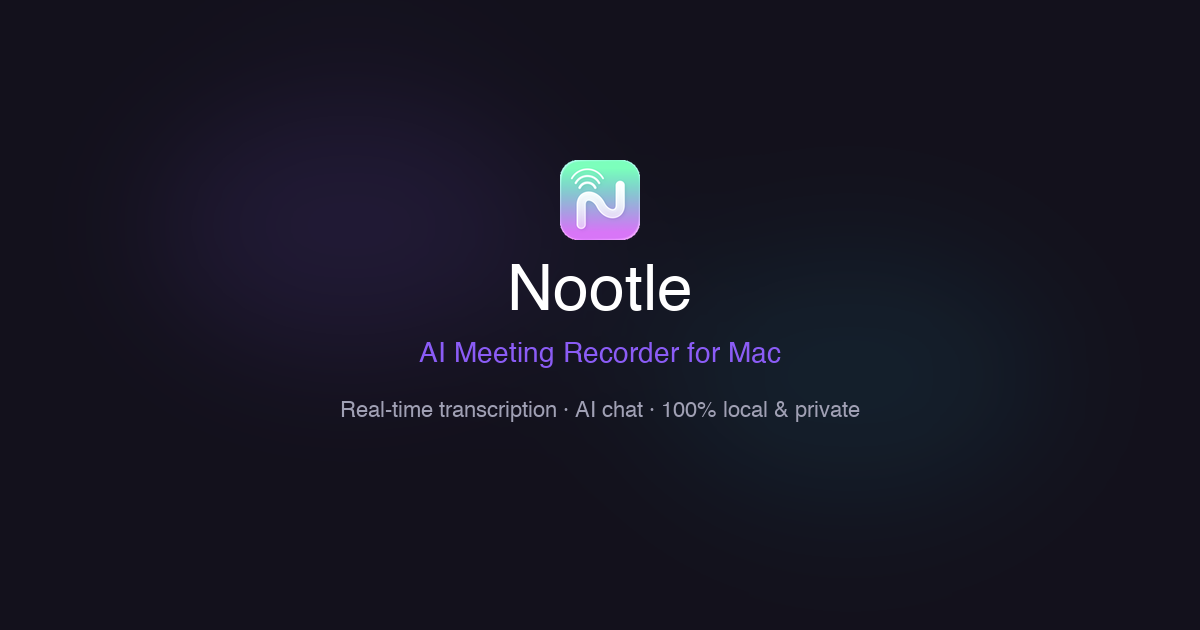
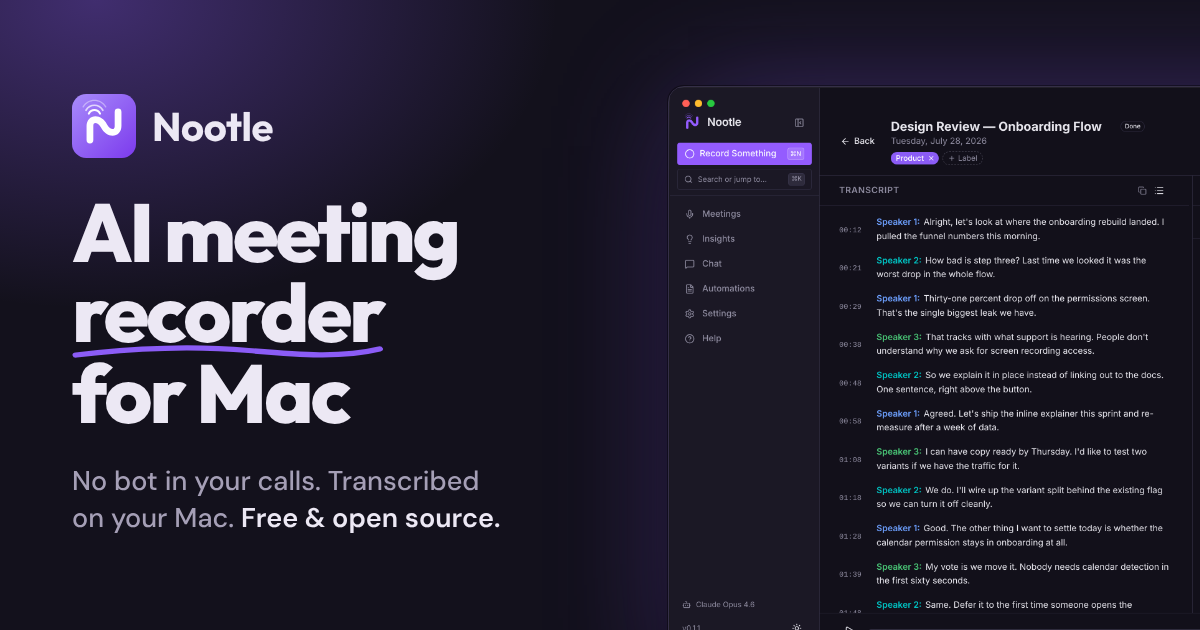
feat(site): redesign Open Graph share image
The old card was a small centered logo and tagline on an empty dark
background, so link previews read as a blank rectangle. The new one leads
with a large headline and shows the real meeting screen.

The image is rendered from scripts/og-image/og-image.html with Playwright
(pnpm og-image). OG_IMAGE carries a version query so social sites re-fetch
it instead of serving their cached copy.

Claude-Session: https://claude.ai/code/session_013qMKqzPfdygmsVsEaXe3Ju

diff --git a/scripts/og-image/og-image.html b/scripts/og-image/og-image.html
@@ -1,0 +1,85 @@
+<!doctype html>
+<html>
+<head>
+<meta charset="utf-8">
+<link rel="preconnect" href="https://fonts.googleapis.com">
+<link href="https://fonts.googleapis.com/css2?family=Outfit:wght@700;800&family=DM+Sans:wght@500;600&display=block" rel="stylesheet">
+<style>
+  :root {
+    --bg: #13111c;
+    --text: #ece8f4;
+    --text-secondary: #a59fb6;
+    --accent: #8b5cf6;
+    --cyan: #22d3ee;
+    --border: #352f47;
+  }
+  * { margin: 0; padding: 0; box-sizing: border-box; }
+  html, body { width: 1200px; height: 630px; overflow: hidden; }
+  body {
+    position: relative;
+    background:
+      radial-gradient(55% 70% at 8% 0%, color-mix(in srgb, var(--accent) 38%, transparent), transparent 70%),
+      radial-gradient(45% 60% at 100% 100%, color-mix(in srgb, var(--cyan) 18%, transparent), transparent 70%),
+      var(--bg);
+    font-family: "DM Sans", sans-serif;
+    color: var(--text);
+  }
+  .copy {
+    position: absolute;
+    left: 72px;
+    top: 0;
+    bottom: 0;
+    width: 560px;
+    display: flex;
+    flex-direction: column;
+    justify-content: center;
+  }
+  .brand { display: flex; align-items: center; gap: 16px; margin-bottom: 34px; }
+  .brand img { width: 64px; height: 64px; }
+  .brand span { font-family: "Outfit", sans-serif; font-weight: 700; font-size: 40px; letter-spacing: -0.01em; }
+  h1 {
+    font-family: "Outfit", sans-serif;
+    font-weight: 800;
+    font-size: 82px;
+    line-height: 0.98;
+    letter-spacing: -0.035em;
+    margin-bottom: 30px;
+  }
+  .underline { position: relative; display: inline-block; }
+  .underline svg { position: absolute; left: 0; bottom: -0.1em; width: 100%; height: 0.22em; overflow: visible; }
+  p {
+    font-size: 27px;
+    font-weight: 500;
+    line-height: 1.35;
+    color: var(--text-secondary);
+  }
+  p strong { color: var(--text); font-weight: 600; }
+  .shot {
+    position: absolute;
+    left: 668px;
+    top: 86px;
+    width: 900px;
+    border-radius: 16px;
+    border: 1px solid var(--border);
+    box-shadow:
+      0 0 0 1px rgb(0 0 0 / 0.4),
+      0 40px 80px -20px rgb(0 0 0 / 0.7),
+      0 0 120px -20px color-mix(in srgb, var(--accent) 45%, transparent);
+    overflow: hidden;
+  }
+  /* meeting-dark.png pads the 2884x1804 window with 158px/126px of backdrop; crop it out. */
+  .shot img { display: block; width: calc(100% * 3200 / 2884); margin: calc(-100% * 126 / 2884) 0 0 calc(-100% * 158 / 2884); }
+</style>
+</head>
+<body>
+  <div class="copy">
+    <div class="brand">
+      <img src="../../site/public/nootle-icon.svg" alt="">
+      <span>Nootle</span>
+    </div>
+    <h1>AI meeting<br><span class="underline">recorder<svg viewBox="0 0 300 24" preserveAspectRatio="none"><path d="M4 16 C 60 6, 120 4, 170 10 S 260 20, 296 8" fill="none" stroke="#8b5cf6" stroke-width="7" stroke-linecap="round"/></svg></span><br>for Mac</h1>
+    <p>No bot in your calls. Transcribed<br>on your Mac. <strong>Free &amp; open source.</strong></p>
+  </div>
+  <div class="shot"><img src="../../site/public/screenshots/meeting-dark.png" alt=""></div>
+</body>
+</html>

diff --git a/site/components/LandingPage.tsx b/site/components/LandingPage.tsx
@@ -4,7 +4,7 @@ import { Navbar } from "@/components/Navbar";
 import { SiteFooter } from "@/components/SiteFooter";
 import { CopyCommand } from "@/components/CopyCommand";
 import { DownloadButton } from "@/components/DownloadButton";
-import { linkClass, outfit } from "@/components/site-config";
+import { linkClass, OG_IMAGE, outfit } from "@/components/site-config";
 
 export type LandingContent = {
   /** Short label above the headline, e.g. "Granola alternative". */
@@ -53,13 +53,13 @@ export function landingMetadata({
       type: "website",
       url: path,
       siteName: "Nootle",
-      images: [{ url: "/og-image.png", width: 1200, height: 630, alt: title }],
+      images: [{ url: OG_IMAGE, width: 1200, height: 630, alt: title }],
     },
     twitter: {
       card: "summary_large_image",
       title,
       description,
-      images: ["/og-image.png"],
+      images: [OG_IMAGE],
     },
   };
 }

diff --git a/site/app/layout.tsx b/site/app/layout.tsx
@@ -3,6 +3,7 @@ import { Outfit, DM_Sans } from "next/font/google";
 import { JsonLd } from "@/components/JsonLd";
 import { SiteAnalytics } from "@/components/SiteAnalytics";
 import { MotionProvider } from "@/components/MotionProvider";
+import { OG_IMAGE } from "@/components/site-config";
 import "./globals.css";
 
 const outfit = Outfit({
@@ -37,7 +38,7 @@ export const metadata: Metadata = {
     siteName: "Nootle",
     images: [
       {
-        url: "/og-image.png",
+        url: OG_IMAGE,
         width: 1200,
         height: 630,
         alt: "Nootle - AI Meeting Recorder for Mac",
@@ -49,7 +50,7 @@ export const metadata: Metadata = {
     title: "Nootle - AI Meeting Recorder for Mac",
     description:
       DESCRIPTION,
-    images: ["/og-image.png"],
+    images: [OG_IMAGE],
   },
   icons: {
     icon: "/favicon.png",

diff --git a/site/components/site-config.ts b/site/components/site-config.ts
@@ -1,5 +1,7 @@
 export const RELEASES_URL = "https://github.com/michellemayes/nootle/releases";
 export const SPONSOR_URL = "https://github.com/sponsors/michellemayes";
+/** Open Graph / Twitter card image. Bump `v` when the image changes so social sites re-fetch it. */
+export const OG_IMAGE = "/og-image.png?v=2";
 export const BREW_COMMAND =
   "brew tap michellemayes/nootle https://github.com/michellemayes/nootle && brew install --cask nootle";
 

diff --git a/scripts/screenshots/README.md b/scripts/screenshots/README.md
@@ -43,3 +43,15 @@ fontconfig — that is what the committed screenshots were captured with.
 - `SCREENSHOT_BASE_URL` — capture against an already-running server instead of
   starting Vite.
 - `SCREENSHOT_PORT` — port for the Vite dev server (default `1420`).
+
+## Open Graph image
+
+`site/public/og-image.png` (the card shown when nootle.ai is shared) is built
+from `scripts/og-image/og-image.html` and the dark meeting screenshot:
+
+```bash
+pnpm og-image
+```
+
+Re-run it after regenerating the screenshots, then bump `v` in `OG_IMAGE`
+(`site/components/site-config.ts`) so social sites drop their cached copy.
